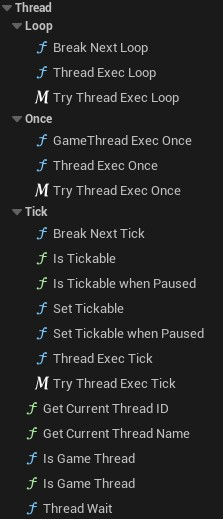
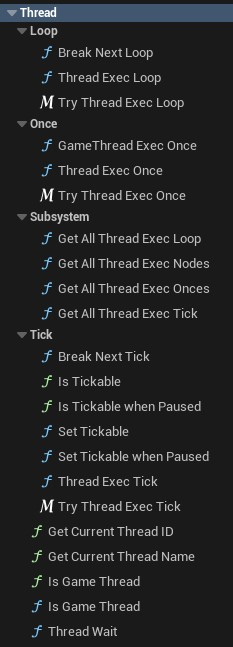
0.7 docs

Changed region(s): [[0.0, 0.0, 1.0, 1.0], [0.0807, 0.4933, 0.1076, 0.5241], [0.0807, 0.3083, 0.1076, 0.3391]]

diff --git a/docs/Chinese Document/ThreadExecutionBlueprintNode_cn.md b/docs/Chinese Document/ThreadExecutionBlueprintNode_cn.md
@@ -2,7 +2,7 @@
 sort: 2
 ---
 
-# 线程执行蓝图节点 v0.5
+# 线程执行蓝图节点 v0.7
 
 ## 插件简介
 
@@ -135,6 +135,8 @@ sort: 2
 
 ## 工具
 
+### 工具集
+
 | 名称                 | 图示                                                         | 描述                                                         |
 | -------------------- | ------------------------------------------------------------ | ------------------------------------------------------------ |
 | GetCurrentThreadID   | ![](../resource/ThreadExecutionBlueprintNode/屏幕截图 2022-12-13 162326.jpg) | 获取执行该节点的线程ID                                       |
@@ -142,4 +144,21 @@ sort: 2
 | IsGameThread         | ![](../resource/ThreadExecutionBlueprintNode/屏幕截图 2022-12-13 162343.jpg) | 获取执行该节点的线程是否为游戏线程                           |
 | IsGameThread         | ![](../resource/ThreadExecutionBlueprintNode/屏幕截图 2022-12-13 162350.jpg) | 一个分支选项。条件是执行该节点的线程是否是游戏线程。         |
 | ThreadWait           | ![](../resource/ThreadExecutionBlueprintNode/屏幕截图 2022-12-13 162400.jpg) | 线程等待，只能用于非游戏线程。一般用于让线程停止运行等待一定时间后再运行。如果该节点被执行于游戏线程中，将不会产生任何效果，会直接跳过。 |
+
+------
+
+### 子系统
+
+![](../resource/ThreadExecutionBlueprintNode/屏幕截图 2022-12-25 143201.jpg)
+
+该子系统旨在提供线程节点的全局信息，现版本仅提供获取所有的线程节点的功能。
+
+- 可调用的函数
+
+| 名称                      | 图示                                                         | 描述                                                         |
+| ------------------------- | ------------------------------------------------------------ | ------------------------------------------------------------ |
+| Get All Thread Exec Nodes | ![](../resource/ThreadExecutionBlueprintNode/屏幕截图 2022-12-25 152201.jpg) | 获取所有的线程执行节点，返回一个元素类型为ThreadAsyncExecBase引用的数组。目前版本该类型的引用没有什么可以调用的函数。 |
+| Get All Thread Exec Onces | ![](../resource/ThreadExecutionBlueprintNode/屏幕截图 2022-12-25 152217.jpg) | 获取所有的线程执行一次节点，返回一个元素类型为ThreadAsyncExecOnce引用的数组。 |
+| Get All Thread Exec Loops | ![](../resource/ThreadExecutionBlueprintNode/屏幕截图 2022-12-25 152227.jpg) | 获取所有的线程执行一次节点，返回一个元素类型为ThreadAsyncExecLoop引用的数组。 |
+| Get All Thread Exec Ticks | ![](../resource/ThreadExecutionBlueprintNode/屏幕截图 2022-12-25 152237.jpg) | 获取所有的线程执行一次节点，返回一个元素类型为ThreadAsyncExecTick引用的数组。 |
 

diff --git a/docs/English Document/ThreadExecutionBlueprintNode_en.md b/docs/English Document/ThreadExecutionBlueprintNode_en.md
@@ -2,7 +2,7 @@
 sort: 2
 ---
 
-# ThreadExecutionBlueprintNode v0.5
+# ThreadExecutionBlueprintNode v0.7
 
 ## Plugin Introduction
 
@@ -133,6 +133,8 @@ Example.
 
 ## Utility
 
+### Utilities
+
 | Name                 | Graph                                                        | Description                                                  |
 | -------------------- | ------------------------------------------------------------ | ------------------------------------------------------------ |
 | GetCurrentThreadID   | ![](../resource/ThreadExecutionBlueprintNode/屏幕截图 2022-12-13 162326.jpg) | Get the thread ID of the thread executing the node           |
@@ -141,3 +143,19 @@ Example.
 | IsGameThread         | ![](../resource/ThreadExecutionBlueprintNode/屏幕截图 2022-12-13 162350.jpg) | A branching option. The condition is whether the thread executing the node is a game thread |
 | ThreadWait           | ![](../resource/ThreadExecutionBlueprintNode/屏幕截图 2022-12-13 162400.jpg) | Thread waiting. Can only be used for non-game threads. Used to wait for a certain amount of time in other threads. If the node is executed in the game thread it will not make the game thread wait. |
 
+------
+
+### Subsystem
+
+![](../resource/ThreadExecutionBlueprintNode/屏幕截图 2022-12-25 143201.jpg)
+
+This subsystem is designed to provide global information about thread nodes, and the current version only provides the ability to get all thread nodes.
+
+- Callable functions
+
+| Name                      | Graph                                                        | Description                                                  |
+| ------------------------- | ------------------------------------------------------------ | ------------------------------------------------------------ |
+| Get All Thread Exec Nodes | ![](../resource/ThreadExecutionBlueprintNode/屏幕截图 2022-12-25 152201.jpg)c | Gets all thread execution nodes, returning an array with elements of type ThreadAsyncExecBase reference. The current version of this type of reference has few functions that can be called. |
+| Get All Thread Exec Onces | ![](../resource/ThreadExecutionBlueprintNode/屏幕截图 2022-12-25 152217.jpg) | Gets all thread execution once nodes, returning an array with elements of type ThreadAsyncExecOnce reference. |
+| Get All Thread Exec Loops | ![](../resource/ThreadExecutionBlueprintNode/屏幕截图 2022-12-25 152227.jpg) | Gets all threads executing a node once, returning an array with elements of type ThreadAsyncExecLoop reference. |
+| Get All Thread Exec Ticks | ![](../resource/ThreadExecutionBlueprintNode/屏幕截图 2022-12-25 152237.jpg) | Gets all thread execution once nodes, returning an array with elements of type ThreadAsyncExecTick reference. |
